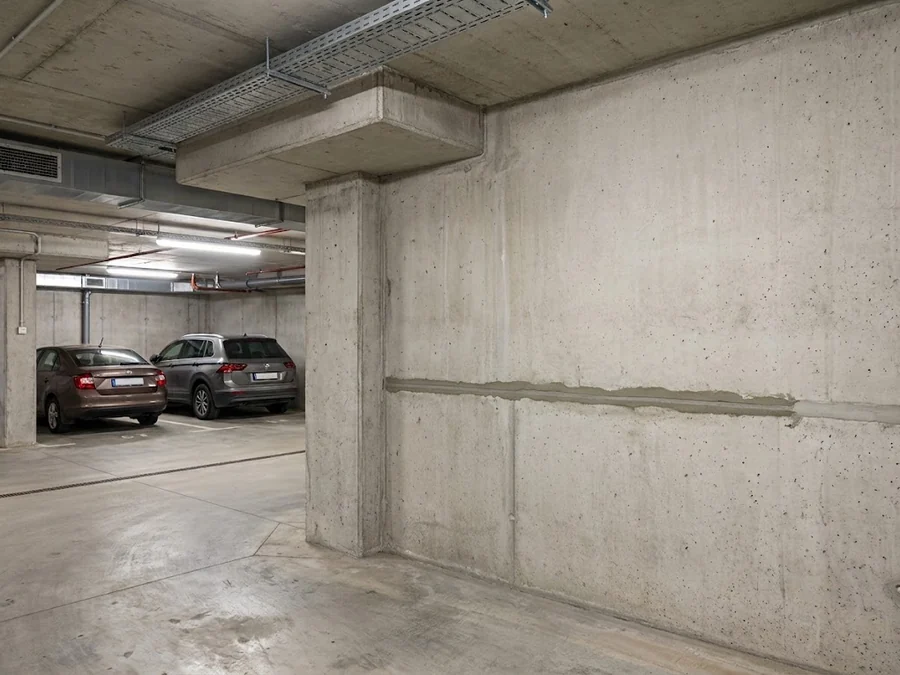
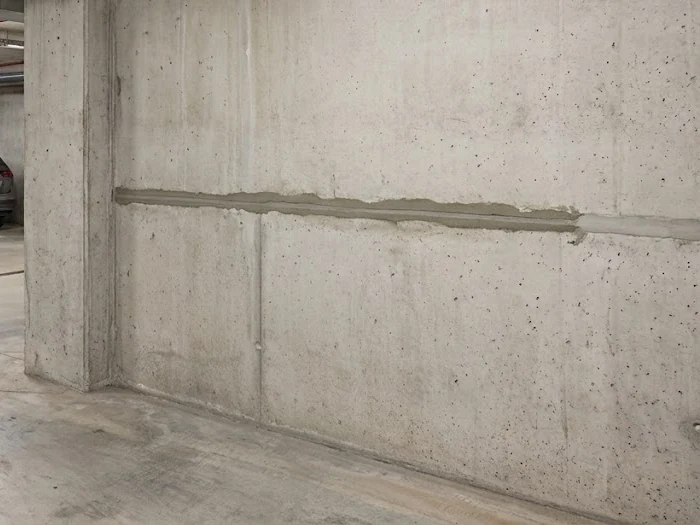
fix: correct before/after semantics in object types and replace step-05 work photo

diff --git a/index.html b/index.html
@@ -1,4 +1,4 @@
-<!doctype html><html lang="ru"><head><meta charset="utf-8"><meta name="viewport" content="width=device-width,initial-scale=1"><title>Инъекционная гидроизоляция подземных паркингов | Кардинал Инжиниринг</title><meta name="description" content="Гидроизоляция подземных паркингов и подвалов. Определяем путь поступления воды, подбираем технологию и бесплатно обследуем объект."><meta name="theme-color" content="#111315"><meta property="og:title" content="Инъекционная гидроизоляция подземных паркингов"><meta property="og:description" content="Инженерные решения для трещин, швов, вводов коммуникаций и напорных протечек."><link rel="icon" href="assets/icons/favicon.svg" type="image/svg+xml"><link rel="preload" as="image" href="assets/images/hero-waterproofing-team.webp" fetchpriority="high"><link rel="stylesheet" href="styles.css?v=assets-v6"></head><body>
+<!doctype html><html lang="ru"><head><meta charset="utf-8"><meta name="viewport" content="width=device-width,initial-scale=1"><title>Инъекционная гидроизоляция подземных паркингов | Кардинал Инжиниринг</title><meta name="description" content="Гидроизоляция подземных паркингов и подвалов. Определяем путь поступления воды, подбираем технологию и бесплатно обследуем объект."><meta name="theme-color" content="#111315"><meta property="og:title" content="Инъекционная гидроизоляция подземных паркингов"><meta property="og:description" content="Инженерные решения для трещин, швов, вводов коммуникаций и напорных протечек."><link rel="icon" href="assets/icons/favicon.svg" type="image/svg+xml"><link rel="preload" as="image" href="assets/images/hero-waterproofing-team.webp" fetchpriority="high"><link rel="stylesheet" href="styles.css?v=assets-v9"></head><body>
 <header class="site-header" id="top"><a class="brand" href="#top"><span class="brand-mark">К</span><span>КАРДИНАЛ<br><em>ИНЖИНИРИНГ</em></span></a><nav class="main-nav" id="primary-nav"><a href="#defects">Решения</a><a href="#injection">Технология</a><a href="#process">Как работаем</a><a href="#survey">Обследование</a></nav><div class="header-actions"><a class="phone" href="tel:+79677773568">8-967-777-35-68</a><button class="button button-small" data-action="survey">Обследование</button></div><button class="menu-toggle" aria-label="Открыть меню" aria-expanded="false" aria-controls="primary-nav"><span></span><span></span></button></header>
 <main>
 <section class="hero section-dark"><div class="hero-art"></div><div class="container hero-content"><p class="eyebrow">ИНЪЕКЦИОННАЯ ГИДРОИЗОЛЯЦИЯ <span></span></p><h1>Гидроизоляция<br>подземных паркингов<br><strong>и подвалов</strong></h1><p class="hero-lead">Устраняем протечки через трещины, рабочие и деформационные швы, вводы коммуникаций и железобетонные конструкции.</p><p class="hero-offer">Бесплатное обследование объекта<br>и техническое решение без обязательств.</p><div class="hero-actions"><button class="button" data-action="survey">Записаться на обследование <span>↗</span></button><a class="outline-link" href="tel:+79677773568">8-967-777-35-68</a></div><div class="hero-markers"><span>ТРЕЩИНЫ</span><span>ШВЫ</span><span>ВВОДЫ</span><span>НАПОРНЫЕ ТЕЧИ</span><span>ВУАЛЬНАЯ ГИДРОИЗОЛЯЦИЯ</span></div></div></section>
@@ -16,4 +16,4 @@
 <section class="section light audience"><div class="container"><p class="eyebrow dark">06 / ОБЪЕКТЫ</p><div class="ticker">УПРАВЛЯЮЩИЕ КОМПАНИИ <i>•</i> ГБУ <i>•</i> СЛУЖБЫ ЭКСПЛУАТАЦИИ <i>•</i> БИЗНЕС-ЦЕНТРЫ <i>•</i> ТОРГОВЫЕ ЦЕНТРЫ <i>•</i> ДЕВЕЛОПЕРЫ <i>•</i> ГЕНЕРАЛЬНЫЕ ПОДРЯДЧИКИ</div><h3>Работаем с действующими объектами,<br>где ремонт необходимо выполнить<br><em>с минимальным вмешательством в конструкцию.</em></h3></div></section>
 <section class="section section-dark process-v3" id="process"><div class="container"><p class="eyebrow">07 / СИСТЕМА РАБОТЫ</p><h2>От дефекта<br>до <em>выполненных работ</em></h2><div class="process-line"><span>ОБСЛЕДОВАНИЕ</span><i>→</i><span>ТЕХНИЧЕСКОЕ РЕШЕНИЕ</span><i>→</i><span>СМЕТА / КП</span><i>→</i><span>ТЗ</span><i>→</i><span>РАБОТЫ</span><i>→</i><span>КОНТРОЛЬ РЕЗУЛЬТАТА</span></div></div></section>
 <section class="section final-cta section-dark"><div class="container final-layout"><div class="section-heading"><p class="eyebrow">08 / ОБСЛЕДОВАНИЕ ОБЪЕКТА</p><h2>ЕСТЬ ПРОТЕЧКА<br>В ПОДЗЕМНОМ<br><em>ПАРКИНГЕ?</em></h2><p>Начнем с обследования.<br><strong class="free-note">Бесплатно. Без обязательств.</strong></p><div class="contact-mini"><a href="tel:+79677773568">8-967-777-35-68</a><a href="mailto:s.dimitriev@injekt-pro.ru">s.dimitriev@injekt-pro.ru</a></div></div><form class="survey-form" id="survey-form-final" novalidate><div class="form-status" aria-live="polite"></div><label>Организация<input name="organization" placeholder="Название организации"></label><label>Адрес объекта<input name="address" placeholder="Город, улица, объект"></label><label class="required">Телефон<input name="phone" type="tel" placeholder="8 (___) ___-__-__" required></label><label>Краткое описание проблемы<textarea name="problem" rows="4" placeholder="Где появляется вода?"></textarea></label><button class="button" type="submit">Записаться на обследование <span>↗</span></button></form></div></section></main>
-<footer class="site-footer"><div class="container footer-grid"><div><a class="brand" href="#top"><span class="brand-mark">К</span><span>КАРДИНАЛ<br><em>ИНЖИНИРИНГ</em></span></a><p>Гидроизоляция · Инъектирование · Ремонт подземных пространств</p></div><div><span class="footer-label">КОНТАКТЫ</span><a href="tel:+79677773568">8-967-777-35-68</a><a href="mailto:s.dimitriev@injekt-pro.ru">s.dimitriev@injekt-pro.ru</a><a href="https://injekt-pro.ru">injekt-pro.ru</a></div><div><span class="footer-label">НАВИГАЦИЯ</span><a href="#defects">Решения</a><a href="#injection">Технология</a><a href="#survey">Обследование</a></div></div><div class="container footer-bottom"><span>© ООО «Кардинал Инжиниринг»</span><span>Под землёй тоже есть будущее</span></div></footer><a class="mobile-cta" href="#survey" data-action="survey">Бесплатное обследование <span>↗</span></a><script src="script.js?v=assets-v6"></script></body></html>
+<footer class="site-footer"><div class="container footer-grid"><div><a class="brand" href="#top"><span class="brand-mark">К</span><span>КАРДИНАЛ<br><em>ИНЖИНИРИНГ</em></span></a><p>Гидроизоляция · Инъектирование · Ремонт подземных пространств</p></div><div><span class="footer-label">КОНТАКТЫ</span><a href="tel:+79677773568">8-967-777-35-68</a><a href="mailto:s.dimitriev@injekt-pro.ru">s.dimitriev@injekt-pro.ru</a><a href="https://injekt-pro.ru">injekt-pro.ru</a></div><div><span class="footer-label">НАВИГАЦИЯ</span><a href="#defects">Решения</a><a href="#injection">Технология</a><a href="#survey">Обследование</a></div></div><div class="container footer-bottom"><span>© ООО «Кардинал Инжиниринг»</span><span>Под землёй тоже есть будущее</span></div></footer><a class="mobile-cta" href="#survey" data-action="survey">Бесплатное обследование <span>↗</span></a><script src="script.js?v=assets-v9"></script></body></html>

diff --git a/script.js b/script.js
@@ -35,12 +35,15 @@ hero.querySelector('.hero-art').style.setProperty('background-position', 'center
 const navLinks = document.querySelectorAll('.main-nav a');
 [['Зоны работ', '#areas'], ['Выполнение работ', '#works'], ['Как работаем', '#field-process'], ['Обследование', '#survey']].forEach(([label, href], index) => { if (navLinks[index]) { navLinks[index].textContent = label; navLinks[index].href = href; } });
 
-const ASSET_VERSION = 'v6';
+const ASSET_VERSION = 'v9';
 const BEFORE_AFTER_CHEVRONS = '<svg viewBox="0 0 24 24" width="18" height="18" fill="none" stroke="currentColor" stroke-width="1.7" stroke-linecap="round" stroke-linejoin="round" aria-hidden="true"><path d="M9.6 8.4 6 12l3.6 3.6M14.4 8.4 18 12l-3.6 3.6"/></svg>';
 const initBeforeAfterSlider = (root) => {
   const range = root.querySelector('.ba-range');
   if (!range) return;
-  const apply = () => { root.style.setProperty('--ba', range.value + '%'); };
+  const apply = () => {
+    root.style.setProperty('--ba', range.value + '%');
+    range.setAttribute('aria-valuetext', range.value + '%');
+  };
   apply();
   range.addEventListener('input', apply);
   range.addEventListener('change', apply);
@@ -131,7 +134,7 @@ if (objectTypes) {
     {
       before: 'object-underground-parking-before.webp',
       after: 'object-underground-parking-after.webp',
-      w: 900, h: 675,
+      w: 700, h: 525,
       altBefore: 'Подземный паркинг: протечка по рабочему шву бетонной стены, мокрый след и лужа на полу',
       altAfter: 'Подземный паркинг после инъекционной гидроизоляции: шов герметичен, стена и пол сухие'
     },
@@ -183,8 +186,8 @@ if (objectTypes) {
       return;
     }
     box.classList.add('has-slider');
-    box.innerHTML = '<div class="ba" data-before-after role="group" aria-label="' + title + ': сравнение до и после" style="--ba:50%">'
-      + '<input class="ba-range" type="range" min="0" max="100" step="1" value="50" aria-label="' + title + ': сравнение до и после, ползунок" aria-valuetext="50%">'
+    box.innerHTML = '<div class="ba" data-before-after role="group" aria-label="' + title + ': сравнение до и после" style="--ba:58%">'
+      + '<input class="ba-range" type="range" min="0" max="100" step="1" value="58" aria-label="' + title + ': сравнение до и после, ползунок" aria-valuetext="58%">'
       + '<img class="ba-img ba-before" src="assets/images/' + media.before + '?v=' + ASSET_VERSION + '" alt="' + media.altBefore + '" width="' + media.w + '" height="' + media.h + '" loading="lazy" decoding="async">'
       + '<img class="ba-img ba-after" src="assets/images/' + media.after + '?v=' + ASSET_VERSION + '" alt="' + media.altAfter + '" width="' + media.w + '" height="' + media.h + '" loading="lazy" decoding="async">'
       + '<span class="ba-tag ba-tag-before" aria-hidden="true">До</span>'
@@ -234,7 +237,7 @@ const WORK_STEPS = [
     alt: 'Инъектирование состава через пакеры: специалист подаёт состав, оператор работает с насосом'
   },
   {
-    file: 'work-05-local-sealing.webp', w: 756, h: 567,
+    file: 'work-05-local-sealing.webp', w: 1200, h: 900,
     title: 'Локальная заделка',
     text: 'После завершения инъектирования и демонтажа пакеров заделываем технологические отверстия и приводим участок в техническое состояние.',
     alt: 'Заделанные технологические отверстия и следы инъектирования на обработанном участке стены'

diff --git a/styles.css b/styles.css
@@ -193,7 +193,7 @@ h1,h2,h3,em{overflow-wrap:anywhere}
    Типы объектов: сравнение до/после
    ============================================================ */
 .object-photo.has-slider{position:relative;overflow:hidden}
-.ba{position:absolute;inset:0;--ba:50%;user-select:none;-webkit-user-select:none}
+.ba{position:absolute;inset:0;--ba:58%;user-select:none;-webkit-user-select:none}
 .object-photo .ba-img{position:absolute;inset:0;width:100%;height:100%;object-fit:cover;object-position:center;display:block;-webkit-user-drag:none}
 .ba-before{z-index:0}
 .ba-after{z-index:1;clip-path:inset(0 0 0 var(--ba))}
